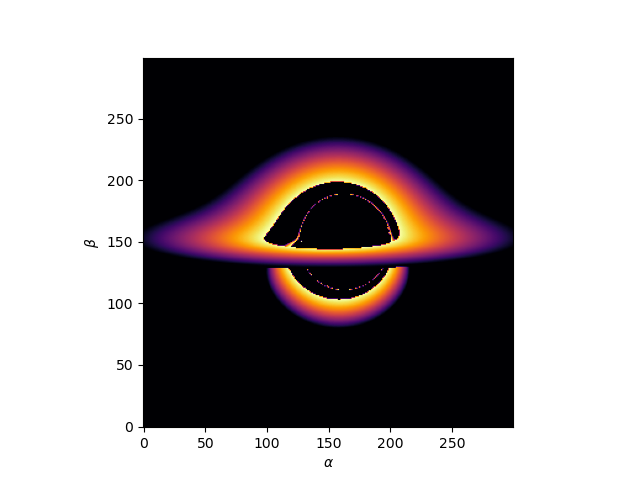
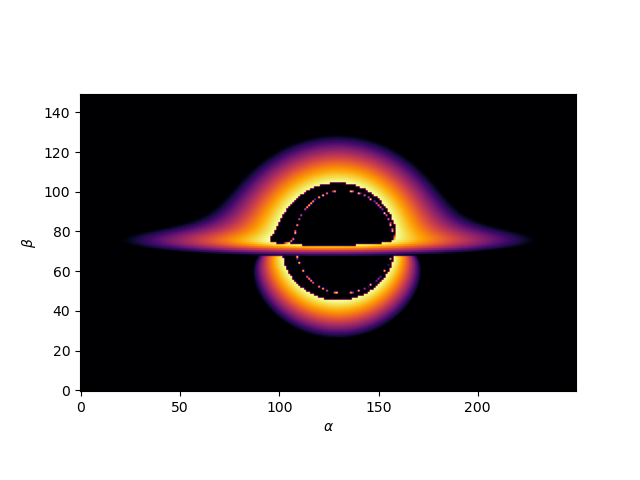
Kerr metric optimized

Changed region(s): [[0.0625, 0.0938, 0.9062, 0.9688], [0.4688, 0.2812, 0.5625, 0.3125], [0.0312, 0.5, 0.0625, 0.5312]]

diff --git a/image_plane.py b/image_plane.py
@@ -19,7 +19,7 @@ class image_plane:
     and the initial components of the momentum (kt, kr, ktheta, kphi)
     ===========================================================================
     '''
-    def __init__(self, D, iota , s_side , n_pixels):
+    def __init__(self, D, iota , x_s_side, y_s_side , n_pixels=25):
         '''
         =======================================================================
         Defines a square NxN pixels screen with side of size s_side, located 
@@ -33,11 +33,13 @@ class image_plane:
             self.numPixels = n_pixels + 1
         else:
             self.numPixels = n_pixels 
-
-        self.alphaRange = linspace(-s_side, s_side, self.numPixels)
-        self.betaRange = linspace(-s_side, s_side, self.numPixels)
-        print ("Size of the screen in Pixels:", self.numPixels, "X", self.numPixels)
-        print ("Number of Photons: ", (self.numPixels)**2)
+        
+        self.x_pixels = self.numPixels*x_s_side
+        self.y_pixels = self.numPixels*y_s_side
+        self.alphaRange = linspace(-x_s_side, x_s_side, self.x_pixels)
+        self.betaRange = linspace(-y_s_side, y_s_side, self.y_pixels)
+        print ("Size of the screen in Pixels: ", self.x_pixels, "X", self.y_pixels)
+        print ("Number of Photons: ", self.x_pixels*self.y_pixels)
 
 
     def photon_coords(self, alpha, beta, freq=1): 

diff --git a/config.py b/config.py
@@ -18,7 +18,7 @@ from image_plane import *
 ############################ BLACK HOLE DEFINITION ############################
 ###############################################################################
 M = 1 # Mass
-a = 0.9 # Angular Monmentum
+a = 0.8 # Angular Monmentum
 #blackhole = schwarzschild.BlackHole(M)
 blackhole = kerr.BlackHole(M,a)
 
@@ -27,16 +27,19 @@ blackhole = kerr.BlackHole(M,a)
 ############################# DETECTOR PARAMETERS #############################
 ###############################################################################
 D = 100*M
-iota = pi/2.2
-screen_side = 20*M
-n_pixels = 300
-detector = image_plane(D=D, iota = iota, s_side = screen_side, n_pixels = n_pixels)
+iota = pi/2.1
+x_screen_side = 25*M
+y_screen_side = 15*M
+n_pixels = 25
+detector = image_plane(D=D, iota = iota, 
+                       x_s_side = x_screen_side, y_s_side = y_screen_side,
+                       n_pixels=n_pixels)
 
 
 ###############################################################################
 ############################# ACCRETION STRUCTURE #############################
 ###############################################################################
-R_min = 6*M
+R_min = blackhole.ISCOco + 2
 R_max = 20*M
 acc_structure = thin_disk(R_min, R_max)
 

diff --git a/common.py b/common.py
@@ -82,11 +82,11 @@ def geo_integ(p, blackhole, acc_structure, detector):
     sol = odeint(blackhole.geodesics, p.iC, lmbda)
     indx = len(sol[:,1])
     p.fP = [0,0,0,0,0,0,0,0]
-    for i in range(indx//3, indx):
+    for i in range(int(indx//2.5), indx-1):
         if sol[i,1] < blackhole.EH + 1e-5: 
             indx = i
             break
-        elif cos(sol[i,2])*cos(sol[i+1,2])<0:#abs(sol[i,1]*cos(sol[i,2])) < 1e-1:
+        elif cos(sol[i,2])*cos(sol[i+1,2]) < 0:#abs(sol[i,1]*cos(sol[i,2])) < 1e-1:
             if sol[i,1] > in_edge and sol[i,1] < out_edge:
                 indx = i
                 p.fP = sol[i]
@@ -122,7 +122,7 @@ class Image:
         '''
         Creates the image data 
         '''
-        self.image_data = zeros([self.detector.numPixels, self.detector.numPixels])
+        self.image_data = zeros([self.detector.x_pixels, self.detector.y_pixels])
         photon=1
         for p in self.photon_list:
             geo_integ(p, blackhole, acc_structure, self.detector)

diff --git a/kerr.py b/kerr.py
@@ -21,6 +21,10 @@ class BlackHole:
         self.M = M
         self.a = a
         self.EH = self.M + sqrt(self.M**2 - self.a**2)
+        Z1 = self.M + (self.M**2 - self.a**2)**(1/3)*((self.M + self.a)**(1/3) + (self.M - self.a)**(1/3))
+        Z2 = sqrt(3*self.a**2 + Z1**2)
+        self.ISCOco = 3*self.M + Z2 - sqrt((3*self.M - Z1)*(3*self.M + Z1 + 2*Z2)) 
+        self.ISCOcounter = 3*self.M + Z2 + sqrt((3*self.M - Z1)*(3*self.M + Z1 + 2*Z2))
 
     def metric(self,x):
         '''

diff --git a/main.py b/main.py
@@ -10,8 +10,6 @@ Creates the Black Hole image
 from common import Image
 from config import *
 
-
-
 #################################### MAIN #####################################
 
 image = Image()
